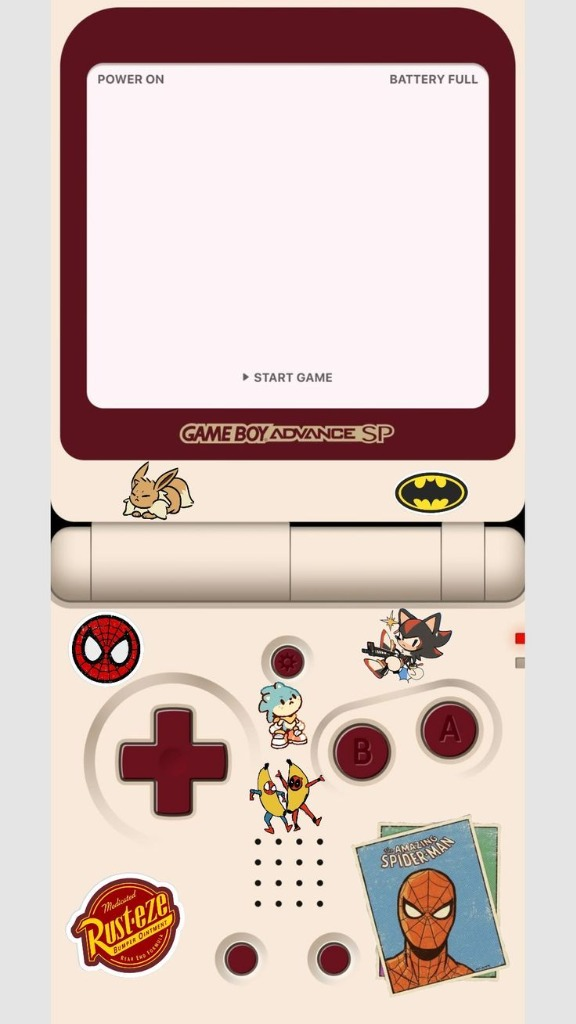
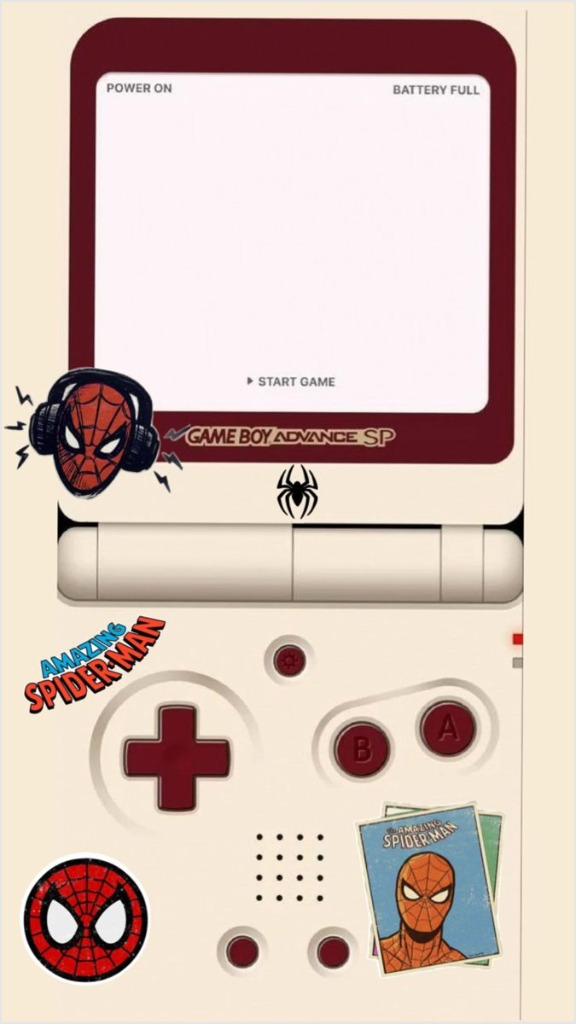
feat: update stickers skin to Spider-Man edition

Changed region(s): [[0.0, 0.0, 0.9375, 0.8125], [0.375, 0.625, 0.9062, 0.9688], [0.0312, 0.8125, 0.3438, 0.9688]]

diff --git a/src/domain/calibration/CalibrationContext.tsx b/src/domain/calibration/CalibrationContext.tsx
@@ -10,7 +10,7 @@ export const AVAILABLE_SKINS = [
     { id: 'original', name: 'Original', path: '/gb_bg.jpg' },
     { id: 'pikachu', name: 'Pikachu', path: '/skins/pikachu.jpg' },
     { id: 'lugia', name: 'Lugia', path: '/skins/lugia.jpg' },
-    { id: 'stickers', name: 'Stickers', path: '/skins/stickers.jpg' },
+    { id: 'stickers', name: 'Spider-Man', path: '/skins/stickers.jpg' },
     { id: 'mew', name: 'Mew', path: '/skins/mew.jpg' },
 ];
 

diff --git a/src/domain/calibration/types.ts b/src/domain/calibration/types.ts
@@ -14,6 +14,8 @@ export interface CalibrationData {
 export interface CalibrationState {
     data: CalibrationData;
     isCalibrated: boolean;
+    currentSkin: string;
     saveCalibration: (data: CalibrationData) => void;
     resetCalibration: () => void;
+    setSkin: (skin: string) => void;
 }
